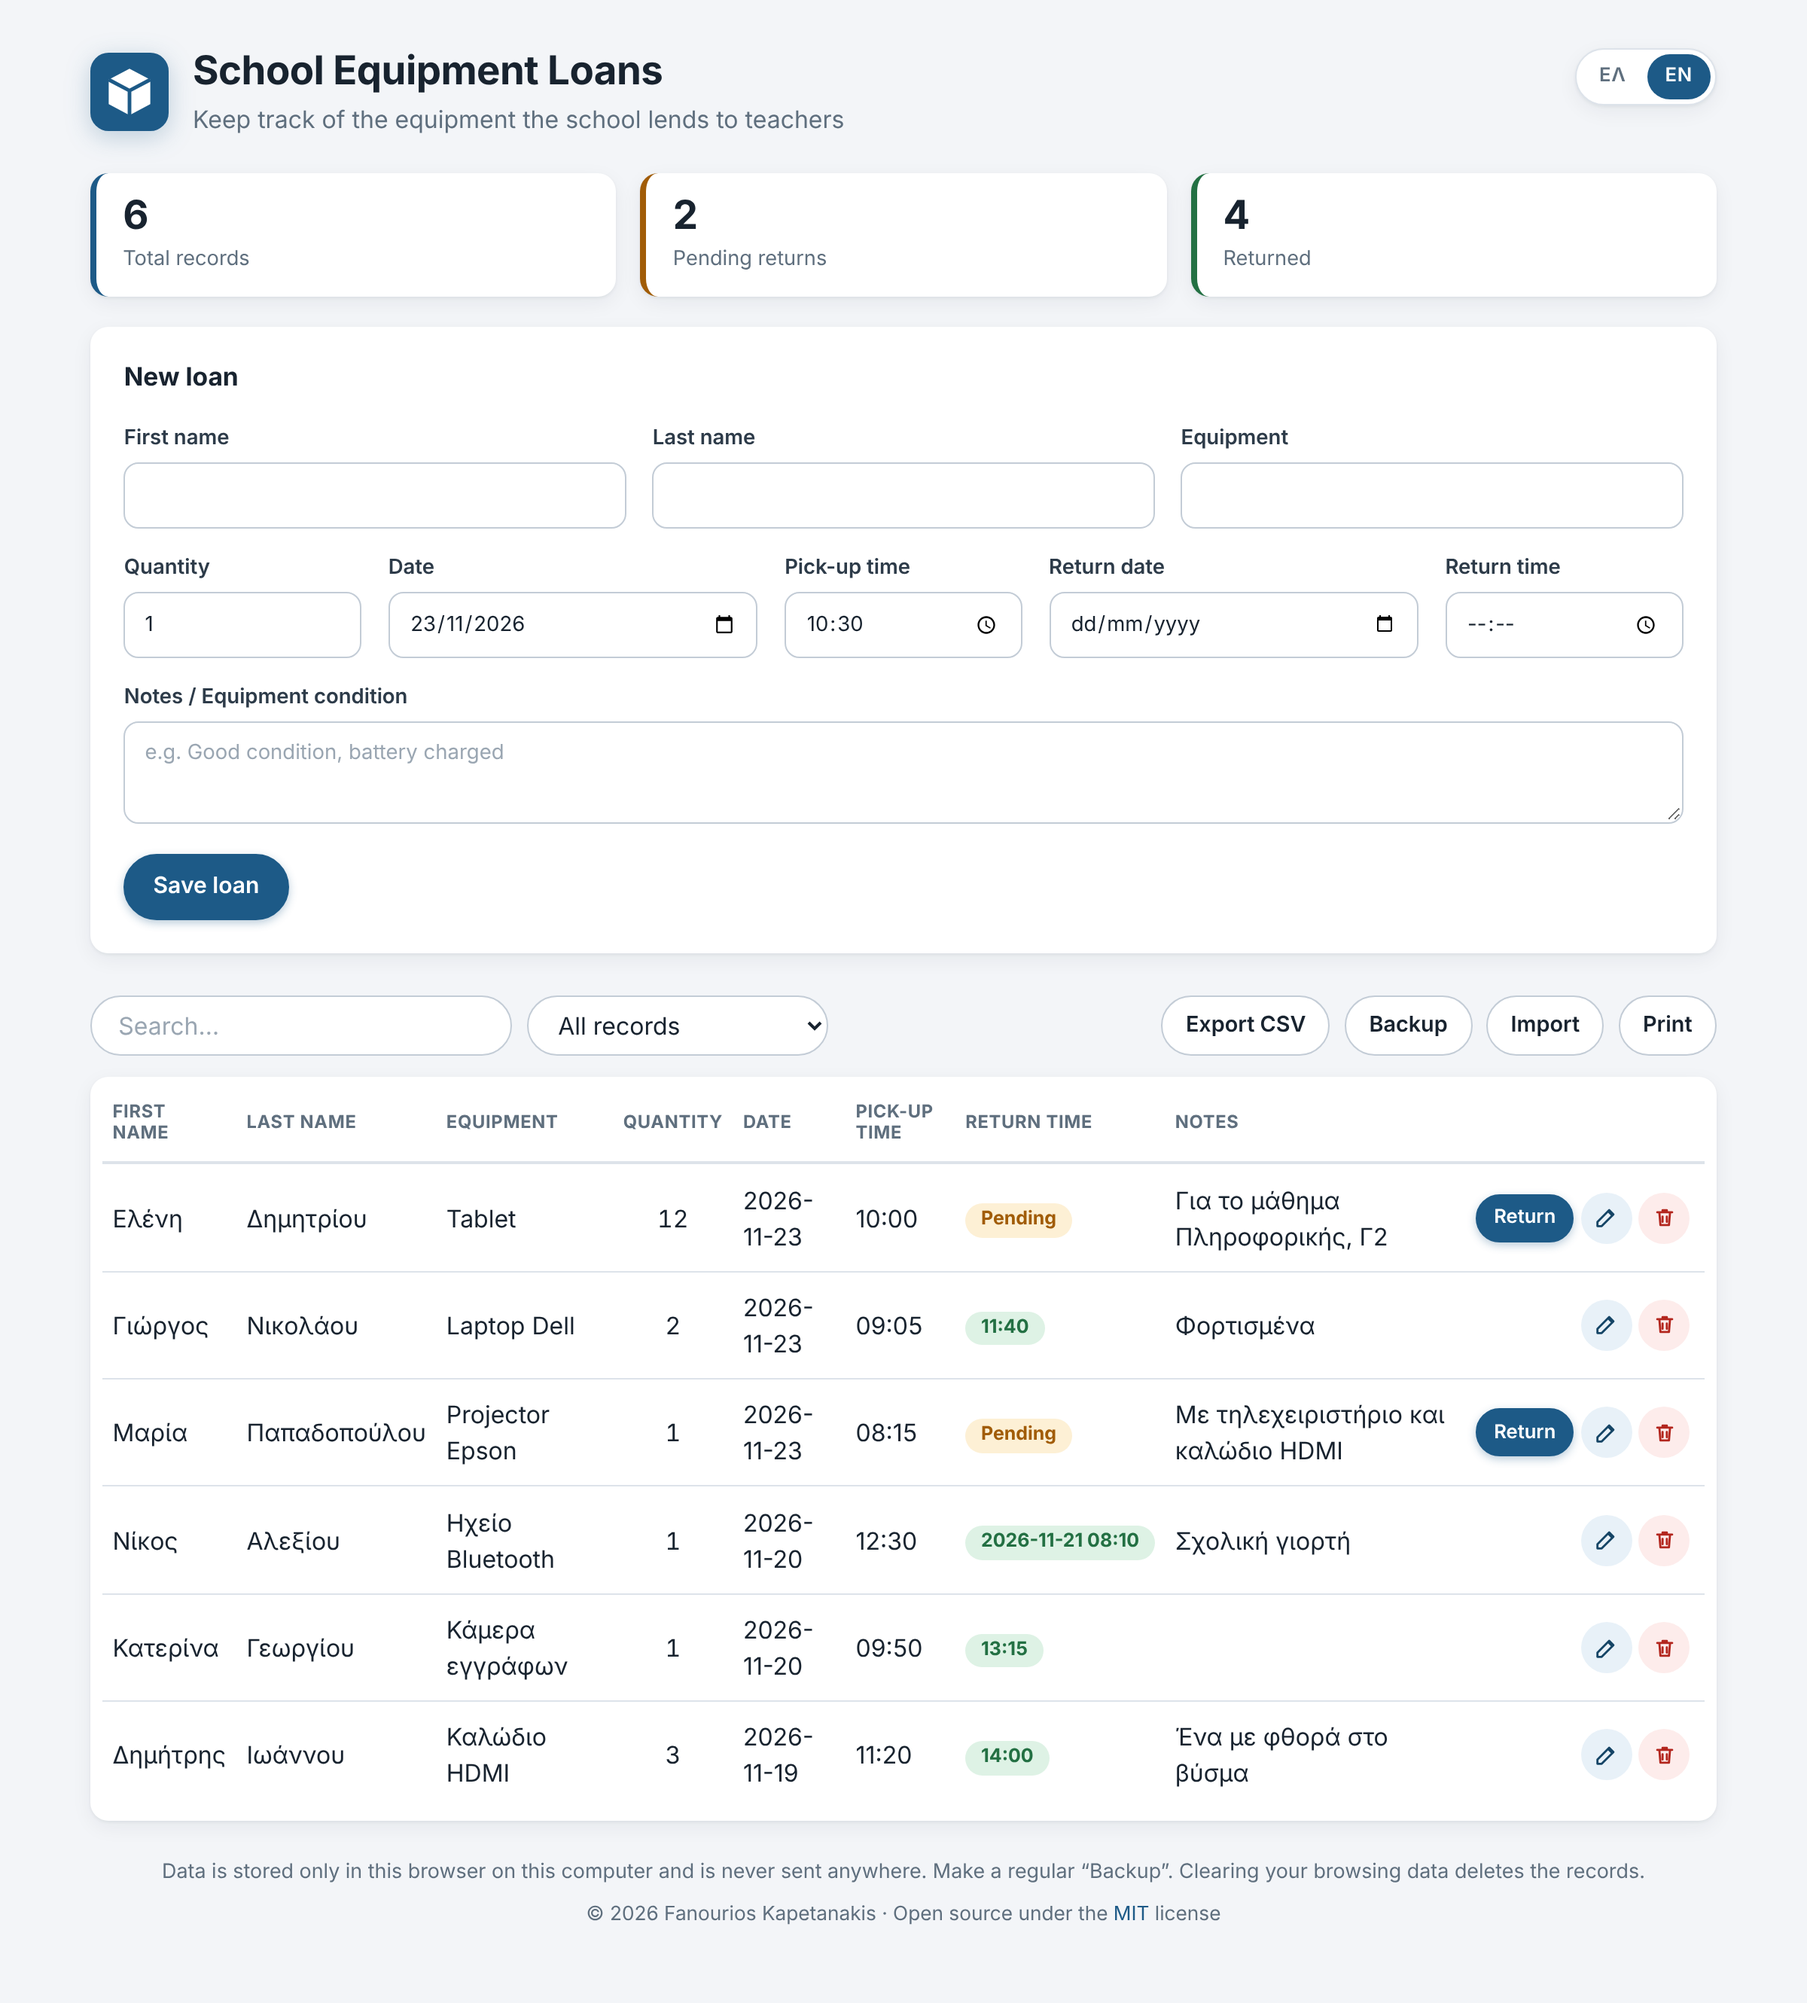
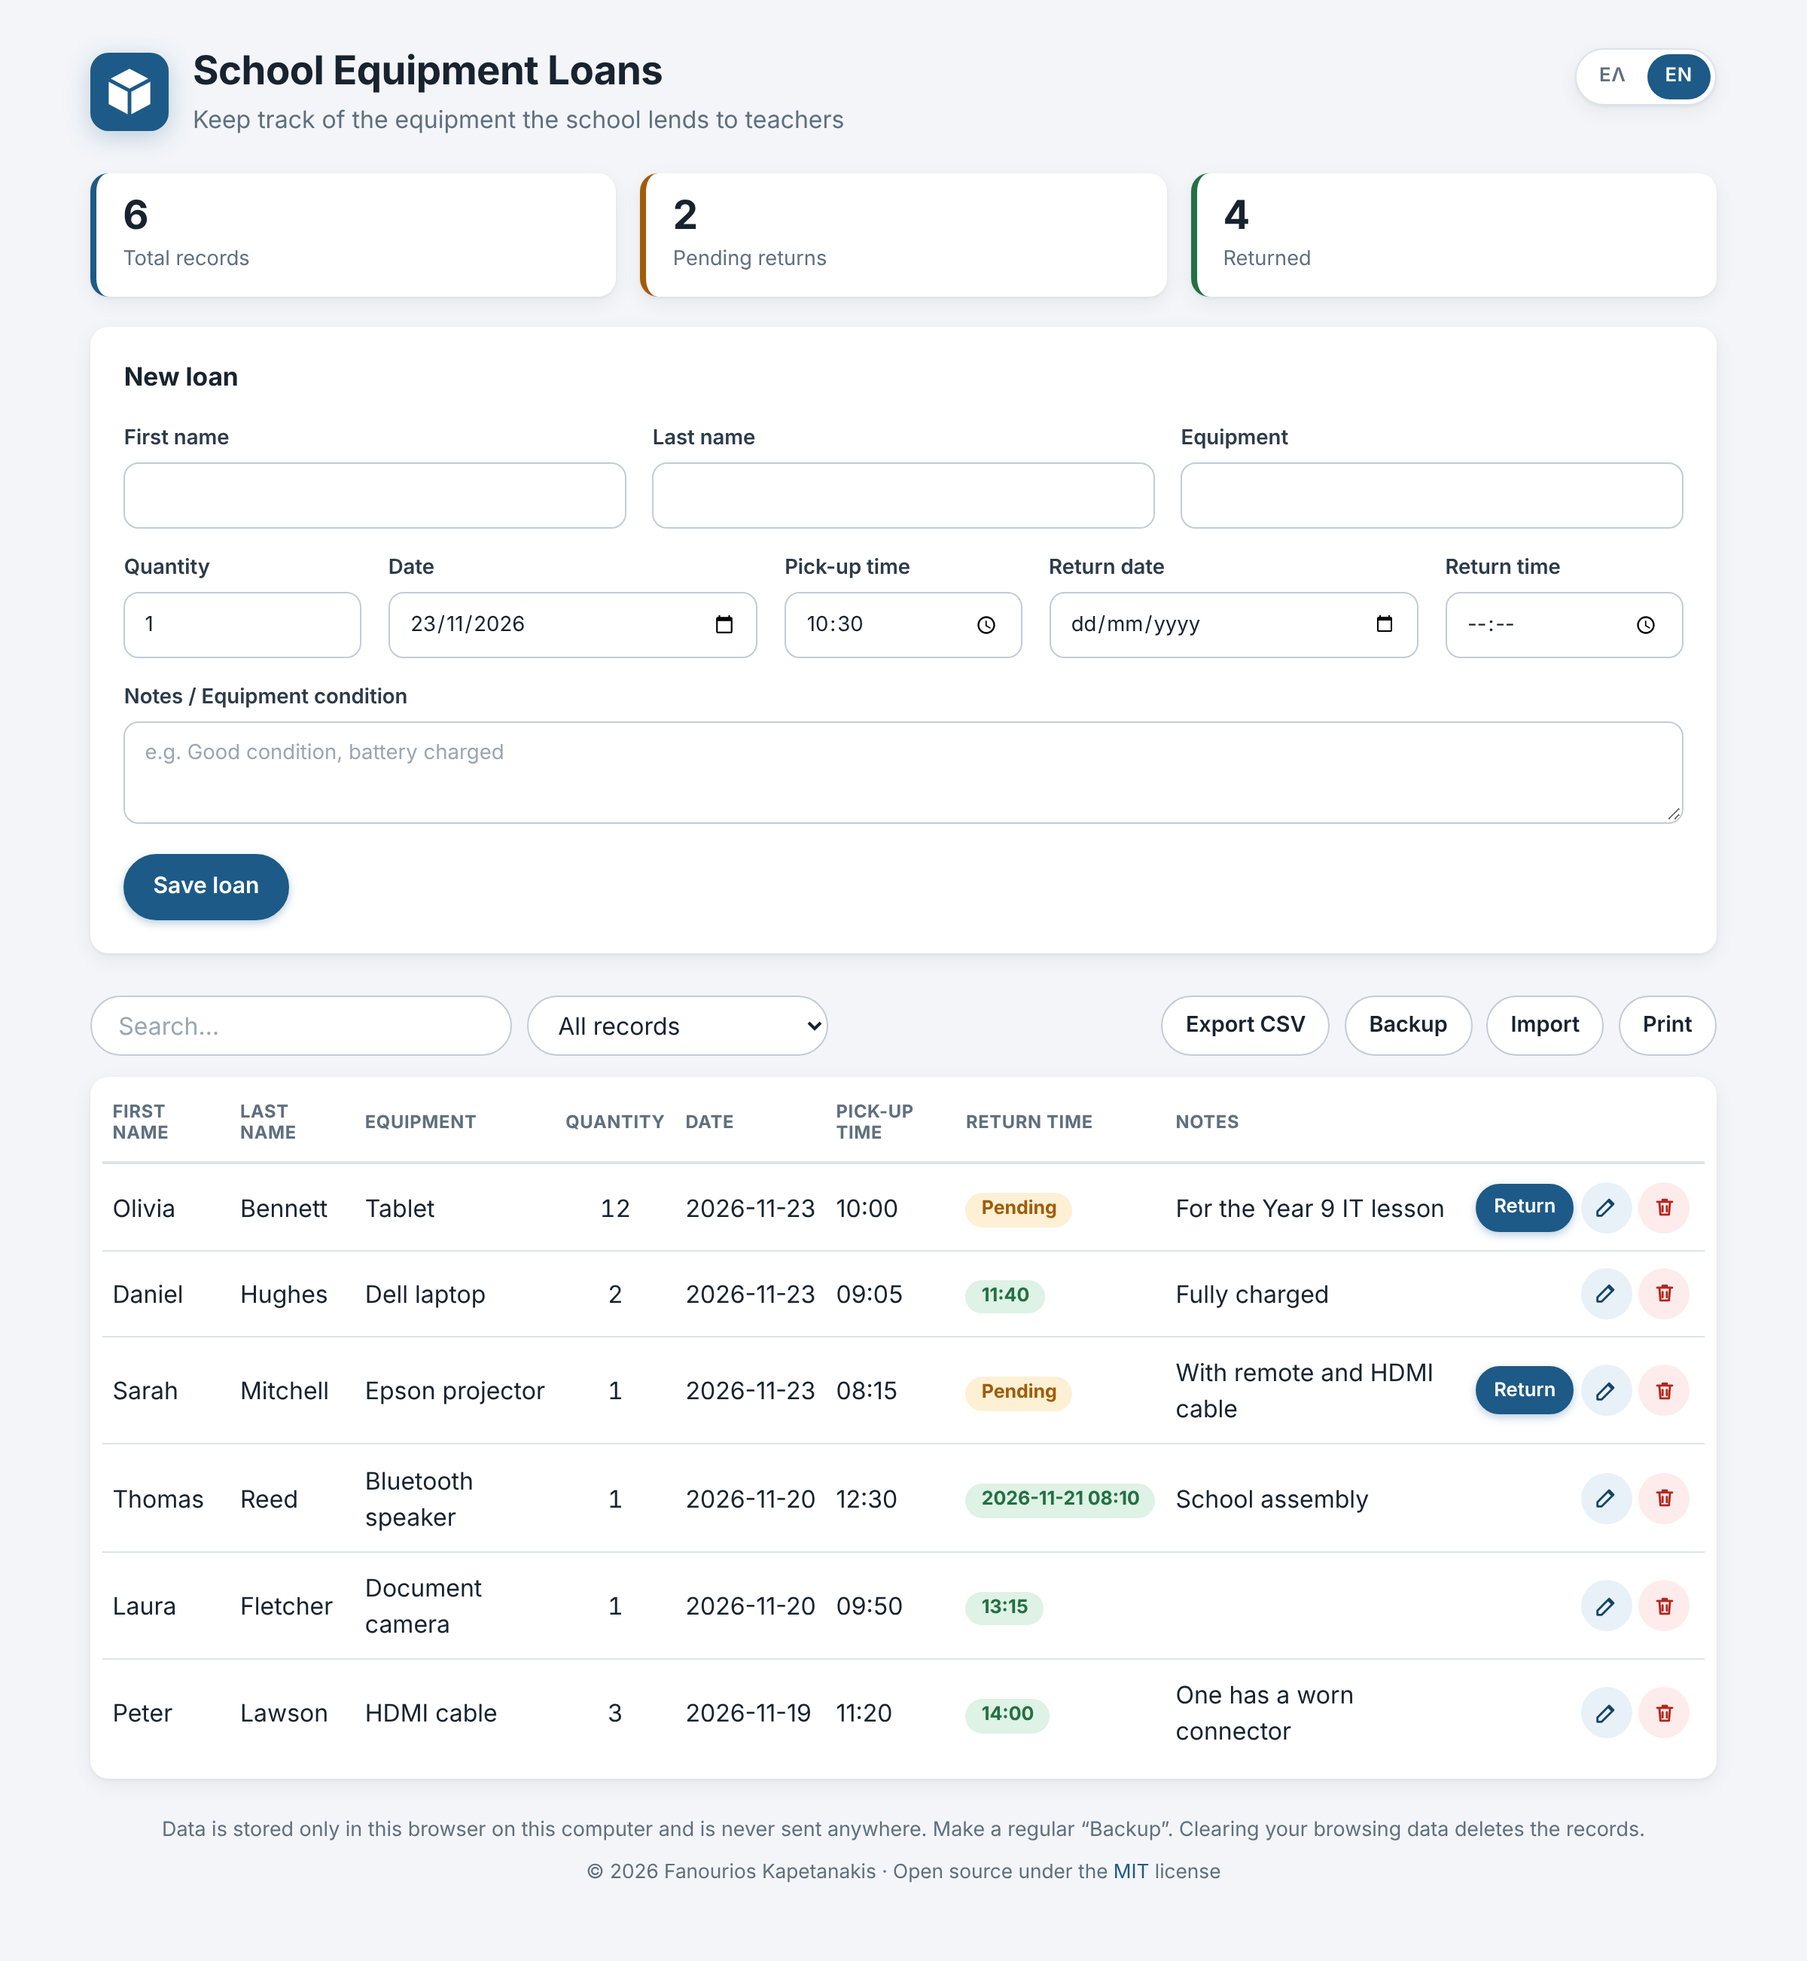
Αγγλικά στιγμιότυπα, διόρθωση πίνακα και εισαγωγής / English screenshots, table and import fixes

diff --git a/index.html b/index.html
@@ -356,7 +356,7 @@ footer a{color:var(--brand);text-decoration:none}footer a:hover{text-decoration:
     $("rows").innerHTML = list.map(function(r){
       var ret = r.tin ? '<span class="tag done">' + esc(retText(r)) + '</span>' : '<span class="tag open">' + esc(t("pending")) + '</span>';
       var retBtn = r.tin ? '' : '<button class="small primary" data-act="ret" data-id="'+esc(r.id)+'">' + esc(t("ret")) + '</button> ';
-      return "<tr><td>"+esc(r.first)+"</td><td>"+esc(r.last)+"</td><td>"+esc(r.item)+'</td><td class="num">'+(r.qty||1)+"</td><td>"+esc(fmtDate(r.date))+
+      return "<tr><td>"+esc(r.first)+"</td><td>"+esc(r.last)+"</td><td>"+esc(r.item)+'</td><td class="num">'+(r.qty||1)+'</td><td class="nw">'+esc(fmtDate(r.date))+
         "</td><td>"+esc(r.tout)+"</td><td class=\"nw\">"+ret+"</td><td>"+esc(r.notes)+"</td>"+
         '<td class="noprint act">'+retBtn+'<button class="icon soft" data-act="edit" data-id="'+esc(r.id)+'" title="'+esc(t("edit"))+'" aria-label="'+esc(t("edit"))+'"><svg viewBox="0 0 24 24" aria-hidden="true"><path d="M4 20h4L19 9l-4-4L4 16v4zM14 6l4 4"/></svg></button> '+
         '<button class="icon danger" data-act="del" data-id="'+esc(r.id)+'" title="'+esc(t("del"))+'" aria-label="'+esc(t("del"))+'"><svg viewBox="0 0 24 24" aria-hidden="true"><path d="M5 7h14M10 7V5h4v2M7 7l1 12h8l1-12M10 11v5M14 11v5"/></svg></button></td></tr>';

diff --git a/README.en.md b/README.en.md
@@ -25,8 +25,11 @@ No installation, no accounts, no server. Runs in any web browser.
 ## 📸 Screenshots
 
 <p align="center">
-  <img src="screenshots/main-en.png" alt="The main screen of the app with the loan form and the list of loans" width="820"><br>
-  <sub>All names in the screenshots are fictional.</sub>
+  <img src="screenshots/main-en.png" alt="The main screen of the app with the loan form and the list of loans" width="820">
+</p>
+<p align="center">
+  <img src="screenshots/mobile-en.png" alt="The app on a phone" width="260"><br>
+  <sub>Works on phones too. All names in the screenshots are fictional.</sub>
 </p>
 
 ## ✨ Features
